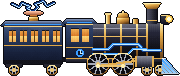
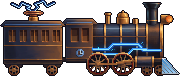
Zeitzug mit Higgsfield neu gezeichnet
Gleicher Entwurf und gleiche Größe (180×76), jetzt im gemalten Stil der Hintergründe.
Vor npm run paint geschützt.

diff --git a/tools/paint/build.ts b/tools/paint/build.ts
@@ -127,7 +127,7 @@ const EIGENE_BILDER = new Set(['titel', 'martys_zimmer_1986', 'kueche_1986', 'ar
   // Kapitel 3, mit Higgsfield erzeugt
   'streichhoelzer', 'bleistift', 'festprogramm', 'kuchen', 'herausforderung', 'knallfrosch', 'knallfrosch_brennend', 'fluxkompensator',
   'biffs_brief', 'nachricht', 'vergilbter_brief', 'saloon_theke', 'misthaufen', 'pferd', 'grundstein_auf',
-  'x_grog', 'x_aushang_sand', 'x_wanderer', 'x_insel', 'gelber_brief', 'flux_boden', 'brief_knitter', 'sicherung_fach']);
+  'x_grog', 'x_aushang_sand', 'x_wanderer', 'x_insel', 'gelber_brief', 'flux_boden', 'brief_knitter', 'sicherung_fach', 'zeitzug']);
 
 const args = process.argv.slice(2);
 const force = args.includes('--force');

diff --git a/CLAUDE.md b/CLAUDE.md
@@ -25,7 +25,7 @@ Point-&-Click-Adventure im SCUMM-Stil. Phaser 4, TypeScript, Vite, inkjs, navmes
 - **Stimmen:** Marty lässig, kurz, ironisch. Junger Doc zögerlich („vermutlich“, „das sollte ich notieren“). Doc mit Ausrufen und „Das ist ein Problem!“. Die Tannens verdrehen Sprichwörter. Dialoge haben höchstens 4 Antworten je Knoten; Nebengespräche liegen in eigenen Knoten, Rätselantworten bleiben auf der ersten Ebene.
 - **Grafik:** Hintergründe, große Sprites, Titelbild, Oberfläche (`ui.ts`), Gegenstände (`items.ts`) und Figuren (`figuren.ts`), die letzten beiden in sechsfacher Größe gemalt und verkleinert, malt `tools/paint/` in Echtfarben (`painter.ts`, Materialien in `kit.ts`, je Ort ein Modul); jedes Bild bekommt dann seine eigene 256-Farben-Palette. Stil: The Dig, Full Throttle, jede Zeitebene mit eigener Stimmung. Klickflächen stehen in `src/game/rooms/` und bestimmen, wo gemalt wird. Kleine Sprites kommen aus `tools/pixel/` mit der festen 64-Farben-Palette (`assets/palette.gpl`). Die Spielschrift steht in `tools/pixel/font.ts` (`#` voll, `+` halb hell für Rundungen; Tint färbt sie), die Schrift auf gemalten Schildern getrennt in `tools/paint/schrift.ts` (Stile `antiqua`, `block`, `western`, `neon`, Stämme auf dem Pixelraster); `schild.ts` liefert nur noch Einzelzeichen für Gegenstände und das Breitenmaß. Die Farben der Oberfläche stehen in `src/engine/theme.ts`. Eigene PNGs gleichen Namens ersetzen jedes Bild; `npm run paint` lässt vorhandene Dateien liegen. Vom Nutzer gezeichnete Bilder stehen in `EIGENE_BILDER`, seine Figuren in `EIGENE_FIGUREN` (`tools/paint/build.ts`) und werden auch mit `--force` nie übermalt. Die Figuren tragen die Namen der Geschichte und dürfen den Filmfiguren, -schauspielern und -kostümen ähnlich sehen. Kowalski, Strickland, Jennifer und die Figuren von 1955 (junger Doc, George, Biff, Lou, Goldie, Händler) sind mit Higgsfield erzeugt: Modellblatt und Bewegungen mit Nano Banana Pro auf Magenta-Grund, dann `tools/higgsfield/` (`extract.cjs` schneidet aus und verkleinert, `compose.cjs` legt die Frames mit gemeinsamer Palette an, `figur.cjs` zerlegt sie mit Augen und Mund aus `figuren/<figur>.json` in die zehn Dateien). Referenzbilder des Nutzers liegen nur lokal unter `referenzen/`.
 - **Figuren:** nur über `assets/characters/characters.json`. Sprites in `assets/characters/<figur>/<figur>_<animation>.png`, 40×72 je Frame, alle Frames in einer Zeile; die Frame-Anzahl ergibt sich aus der Bildbreite. Aussehen und Gerüst stehen in `tools/paint/figuren.ts` (`LOOKS`). `height` in `characters.json` ist die Figurenhöhe, darüber stehen die Sprechtexte. Fehlt eine Animation, greift eine Ersatzregel. Eigene PNGs müssen ohne Codeänderung funktionieren. Die Klickfläche einer Nebenfigur steht beim Hotspot im Raum und muss zur Figurenhöhe passen.
-- **Fahrzeuge:** liegen unter `assets/characters/<name>/`, eingebunden als Hotspot-Sprite. Zeitzug (180×76) und Wagen im Museum (130×44) malen `zeitzug` und `zeitwagen` in `tools/paint/sprites.ts` (eigene Entwürfe, ohne Filmsymbol).
+- **Fahrzeuge:** liegen unter `assets/characters/<name>/`, eingebunden als Hotspot-Sprite. Den Zeitzug (180×76) hat Higgsfield nach dem alten Entwurf neu gezeichnet; den Wagen im Museum (130×44) malt `zeitwagen` in `tools/paint/sprites.ts` (eigene Entwürfe, ohne Filmsymbol).
 - **Audio:** eigene Stücke, nie Filmmusik. Alle Stücke teilen ein Leitmotiv (`tools/audio/build.ts`, Stufen statt Noten; FM-Stimmen in `synth.ts`). Listen, Stimmen und Zuordnung zur Zeitebene in `src/game/audio.ts`, Dateien unter `assets/audio/<name>.wav`; gleichnamige Datei ersetzen genügt. `M` schaltet stumm. Der Ton lädt im Hintergrund (`engine/AudioLoadScene.ts`); das Spiel wartet nie darauf, ein Stück setzt ein, sobald seine Datei da ist.
 - **Leben und Klang:** `src/game/rooms/leben.ts` legt je Raum und Jahr Effekte (`strip`, `particles`, `glow`, `pass`, `bob`), Raumklang (`ambience`), Boden für die Schritte (`floor`), eigenes Stück (`music`) und Beschäftigung der Nebenfiguren (`fidget`) fest. Das ist reine Darstellung und darf nie Rätsel oder Spielstand berühren. Bildstreifen malt `tools/paint/leben.ts`. Bausteine für große Szenen (`hop`, `moveSprite`, `burst`, `yearRoll`, `showPicture`, `setMusic`) stehen in `ScriptApi`, fertige Abläufe in `src/game/szenen.ts`.
 - **Räume sind Daten:** ein Modul pro Raum in `src/game/rooms/`, in `rooms/index.ts` eintragen. Neue Räume dürfen keine Engine-Änderung brauchen. Walkboxes sind konvexe, zusammenhängende Polygone; `engine/validate.ts` prüft das beim Start.
